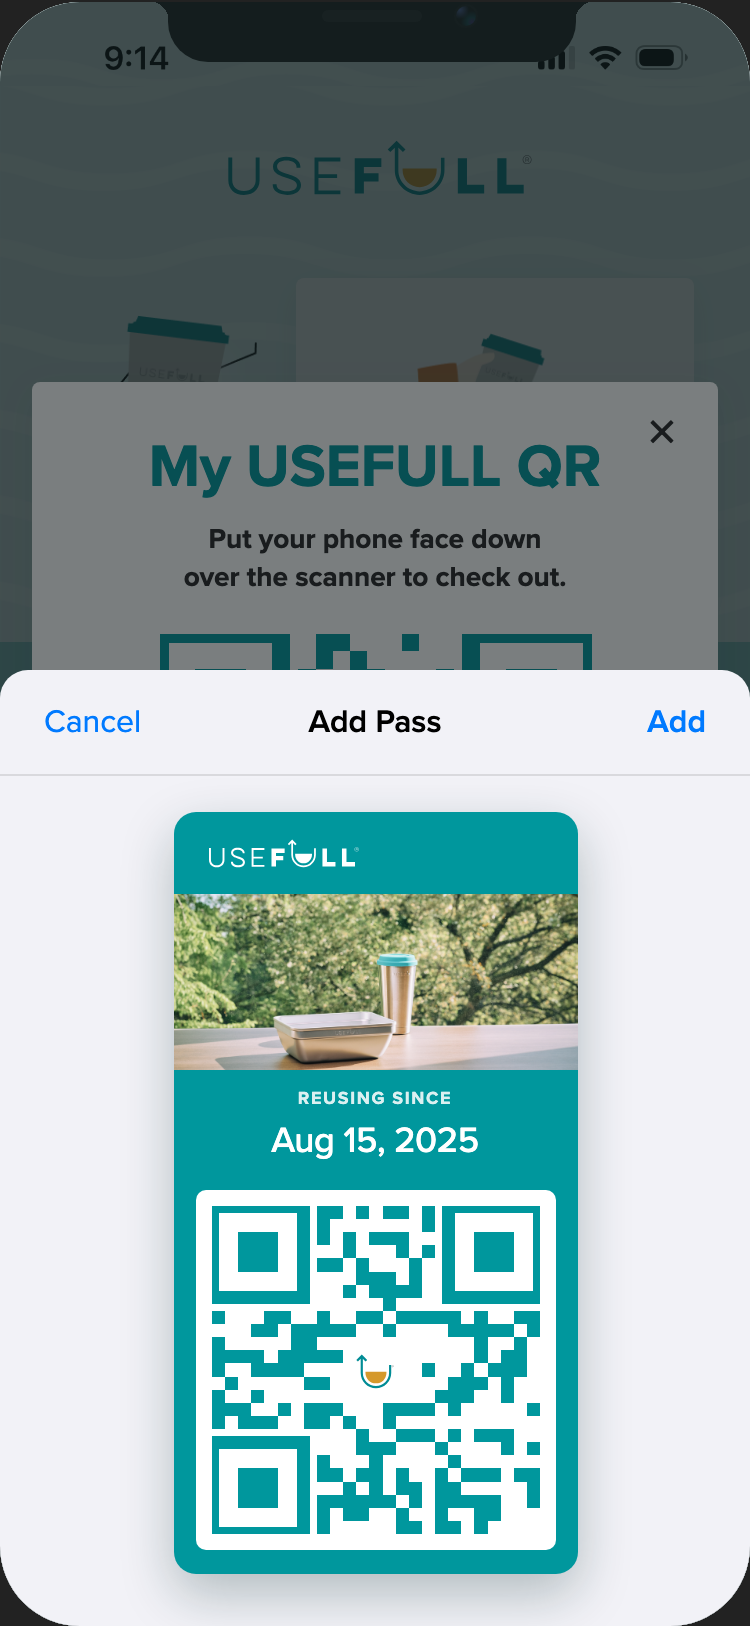
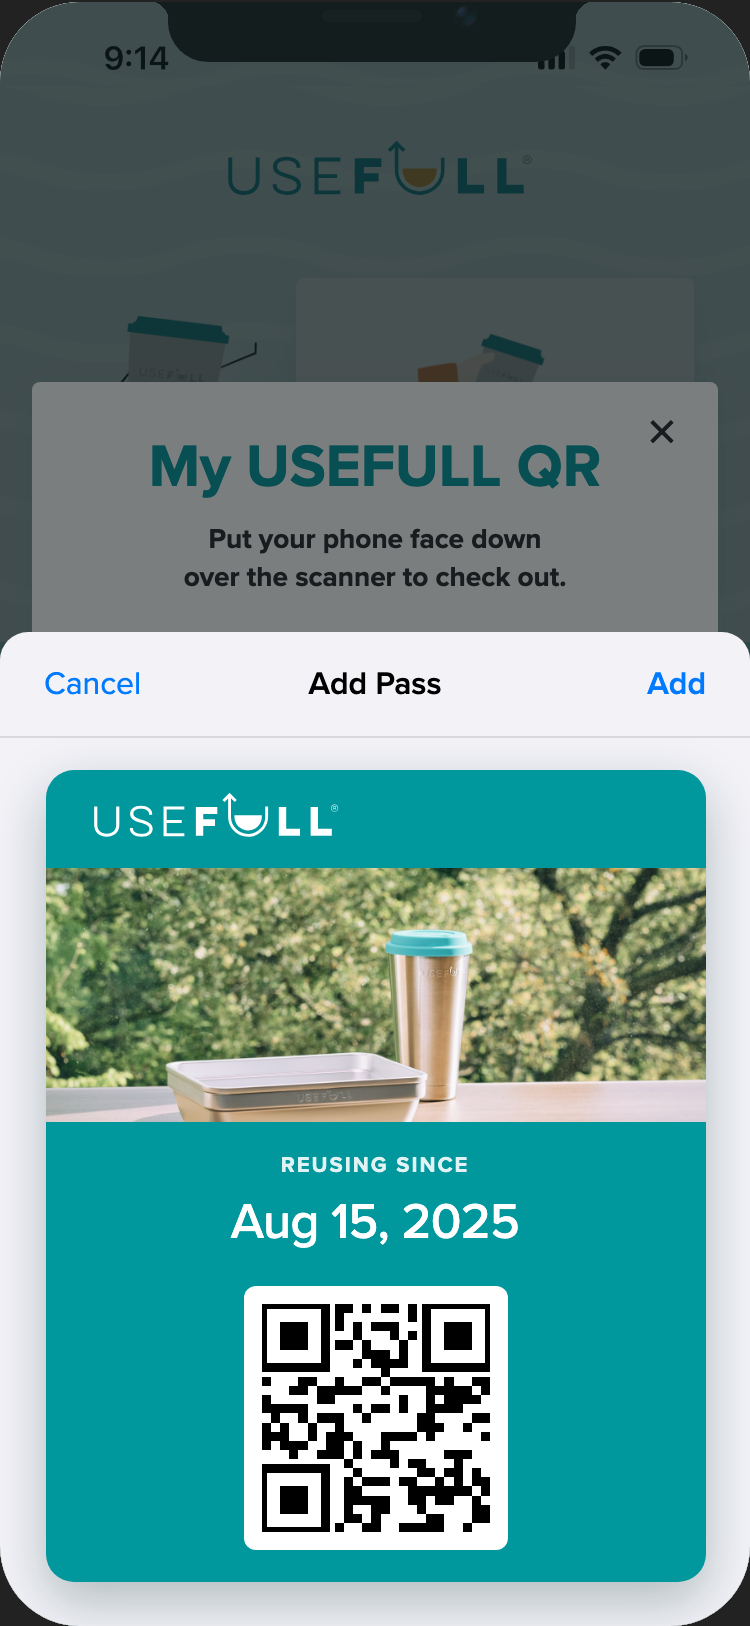
Wire up View in Wallet, enlarge pass, tighten strip crop
The Added-to-Wallet chip was a dead handler. It now opens a simulated
Wallet screen showing the pass in context, reachable from the chip and
from a new View in Wallet button on the add confirmation.

Pass was rendering at 202px inside a 375pt-wide screen, roughly half its
true relative size, which is why the logo and Reusing since read small.
Now 330px (~0.88 of a real pass), with strip.png at the taller 375x144pt
allotment and the photo zoomed toward the containers.

Also drops the USEFULL mark from the pass QR — Wallet renders barcodes
itself, always black on white, never tinted or overlaid.

diff --git a/app.js b/app.js
@@ -72,6 +72,7 @@ const state = {
   channelSetupMessage: '',
   qrSheetOpen: false,
   walletStage: '',
+  walletViewOpen: false,
   passAdded: false,
   walletAvailable: true,
   qrCopyVariant: 'scanner',
@@ -703,7 +704,7 @@ function renderNotificationSettings() {
   </section>`;
 }
 
-function qrSvg(scale = 1, seed = 20250815) {
+function qrSvg(scale = 1, seed = 20250815, withLogo = true) {
   const size = 25;
   let s = seed;
   const rand = () => { s = (s * 1103515245 + 12345) & 0x7fffffff; return s / 0x7fffffff; };
@@ -713,14 +714,14 @@ function qrSvg(scale = 1, seed = 20250815) {
   const modules = [];
   for (let y = 0; y < size; y += 1) {
     for (let x = 0; x < size; x += 1) {
-      if (inFinderMargin(x, y) || inLogo(x, y)) continue;
+      if (inFinderMargin(x, y) || (withLogo && inLogo(x, y))) continue;
       if (rand() > 0.52) modules.push(`<rect x="${x}" y="${y}" width="1" height="1"/>`);
     }
   }
   const finder = (fx, fy) => `<path d="M${fx} ${fy}h7v7h-7z" fill="none" stroke="currentColor" stroke-width="1"/><rect x="${fx + 2}" y="${fy + 2}" width="3" height="3"/>`;
   return `<svg class="qr-svg" viewBox="0 0 ${size} ${size}" role="img" aria-label="Your USEFULL QR code" style="--qr-scale:${scale}">
     <g fill="currentColor" shape-rendering="crispEdges">${modules.join('')}${finder(0, 0)}${finder(size - 7, 0)}${finder(0, size - 7)}</g>
-    <image href="branding/USEFULL-icons/USEFULL-Icon-Registered_Color.svg" x="10.1" y="10.9" width="4.8" height="3.4" preserveAspectRatio="xMidYMid meet"/>
+    ${withLogo ? '<image href="branding/USEFULL-icons/USEFULL-Icon-Registered_Color.svg" x="10.1" y="10.9" width="4.8" height="3.4" preserveAspectRatio="xMidYMid meet"/>' : ''}
   </svg>`;
 }
 
@@ -729,7 +730,7 @@ function renderWalletPass() {
     <header class="wallet-pass-head"><img src="branding/USEFULL-icons/USEFULL-Logo-Registered_KnockOut.svg" alt="USEFULL" /></header>
     <div class="wallet-pass-strip"><img src="images/outdoor-containers.png" alt="" /></div>
     <div class="wallet-pass-field"><span>Reusing since</span><strong>${escapeHTML(state.reusingSince)}</strong></div>
-    <div class="wallet-pass-qr">${qrSvg(1, 90210)}</div>
+    <div class="wallet-pass-qr">${qrSvg(1, 90210, false)}</div>
   </article>`;
 }
 
@@ -770,7 +771,8 @@ function renderWalletFlow() {
         <span class="wallet-done-check" aria-hidden="true">✓</span>
         <h2 id="wallet-done-title">Added to Apple Wallet</h2>
         <p>Find your USEFULL QR in the Wallet app any time.</p>
-        <button class="button button-teal" data-action="wallet-finish" type="button">Done</button>
+        <button class="button button-teal" data-action="wallet-view" type="button">View in Wallet</button>
+        <button class="wallet-done-secondary" data-action="wallet-finish" type="button">Done</button>
       </section>`;
   }
   return `<div class="modal-backdrop wallet-backdrop"></div>
@@ -782,6 +784,21 @@ function renderWalletFlow() {
       </header>
       <div class="wallet-sheet-body">${renderWalletPass()}</div>
     </section>`;
+}
+
+function renderWalletView() {
+  if (!state.walletViewOpen) return '';
+  const otherCards = ['card-a', 'card-b', 'card-c'].map(cls => `<div class="wv-card ${cls}"><span></span></div>`).join('');
+  return `<section class="wallet-view" role="dialog" aria-modal="true" aria-label="Apple Wallet">
+    <div class="wv-status" aria-hidden="true"><span>4:10</span><span class="wv-status-icons"><i class="ph ph-cell-signal-full"></i><i class="ph ph-wifi-high"></i><i class="ph ph-battery-high"></i></span></div>
+    <header class="wv-nav">
+      <button class="wv-back" data-action="wallet-view-close" type="button" aria-label="Back to USEFULL">‹</button>
+      <span class="wv-more" aria-hidden="true">•••</span>
+    </header>
+    <div class="wv-pass">${renderWalletPass()}</div>
+    <div class="wv-stack" aria-hidden="true">${otherCards}</div>
+    <p class="wv-hint">Simulated Apple Wallet — tap ‹ to return to the USEFULL app</p>
+  </section>`;
 }
 
 function renderSheet() {
@@ -820,7 +837,7 @@ function render() {
     profile: renderProfile,
     notificationManager: renderNotificationManager
   };
-  app.innerHTML = views[state.screen]() + renderSettings() + renderConsent() + renderQrSheet() + renderWalletFlow();
+  app.innerHTML = views[state.screen]() + renderSettings() + renderConsent() + renderQrSheet() + renderWalletFlow() + renderWalletView();
 }
 
 function renderAndFocus(selector) {
@@ -1182,7 +1199,11 @@ app.addEventListener('click', event => {
       state.walletStage = 'added';
       return render();
     case 'wallet-finish': state.walletStage = ''; return render();
-    case 'wallet-view': return;
+    case 'wallet-view':
+      state.walletStage = '';
+      state.walletViewOpen = true;
+      return render();
+    case 'wallet-view-close': state.walletViewOpen = false; return render();
   }
 });
 
@@ -1229,11 +1250,12 @@ app.addEventListener('input', event => {
 });
 
 resetButton.addEventListener('click', () => {
-  Object.assign(state, { screen:'community', history:[], acceptedTerms:false, email:'', name:'', firstName:'', lastName:'', password:'', phone:'', otp:'', authMode:'signup', returningEmail:'', returningPassword:'', returningSource:'', accountLookupEmail:'', accountLookupPhone:'', accountLookupResult:'', returningPhoneExists:true, otpEntryCorrect:true, allowEmailNotifications:true, notificationSmsSelected:true, notificationEmailSelected:false, notificationEmail:'', notificationPhoneSelected:false, notificationPhone:'', notificationContext:'signup', transactionalAccepted:false, consentOpen:false, settingsOpen:false, affiliation:'Student', graduationYear:'', payment:'', notificationManagerVersion:'controls', managerExistingChannel:'email', smsCampusEnabled:true, managerEmailAdded:true, managerSmsAdded:false, managerEmail:'owen@usefull.us', managerPhone:'', managerDirty:false, managerSaved:false, managerNotice:'', channelSetupOpen:false, channelSetupStage:'contact', channelSetupType:'', channelSetupContact:'', channelSetupOtp:'', channelSetupError:'', channelSetupMessage:'', qrSheetOpen:false, walletStage:'', passAdded:false, walletAvailable:true, qrCopyVariant:'scanner', notificationPreferences:freshNotificationPreferences(), sheet:null });
+  Object.assign(state, { screen:'community', history:[], acceptedTerms:false, email:'', name:'', firstName:'', lastName:'', password:'', phone:'', otp:'', authMode:'signup', returningEmail:'', returningPassword:'', returningSource:'', accountLookupEmail:'', accountLookupPhone:'', accountLookupResult:'', returningPhoneExists:true, otpEntryCorrect:true, allowEmailNotifications:true, notificationSmsSelected:true, notificationEmailSelected:false, notificationEmail:'', notificationPhoneSelected:false, notificationPhone:'', notificationContext:'signup', transactionalAccepted:false, consentOpen:false, settingsOpen:false, affiliation:'Student', graduationYear:'', payment:'', notificationManagerVersion:'controls', managerExistingChannel:'email', smsCampusEnabled:true, managerEmailAdded:true, managerSmsAdded:false, managerEmail:'owen@usefull.us', managerPhone:'', managerDirty:false, managerSaved:false, managerNotice:'', channelSetupOpen:false, channelSetupStage:'contact', channelSetupType:'', channelSetupContact:'', channelSetupOtp:'', channelSetupError:'', channelSetupMessage:'', qrSheetOpen:false, walletStage:'', walletViewOpen:false, passAdded:false, walletAvailable:true, qrCopyVariant:'scanner', notificationPreferences:freshNotificationPreferences(), sheet:null });
   render();
 });
 
 document.addEventListener('keydown', event => {
+  if (event.key === 'Escape' && state.walletViewOpen) { state.walletViewOpen = false; render(); return; }
   if (event.key === 'Escape' && state.walletStage) { state.walletStage = ''; render(); return; }
   if (event.key === 'Escape' && state.qrSheetOpen) { state.qrSheetOpen = false; render(); return; }
   if (event.key === 'Escape' && state.channelSetupOpen) {

diff --git a/styles.css b/styles.css
@@ -643,24 +643,46 @@ button { -webkit-tap-highlight-color: transparent; }
 .wallet-sheet-bar button { border: 0; background: transparent; color: #007aff; font-size: 16px; cursor: pointer; }
 .wallet-sheet-bar button:first-child { justify-self: start; }
 .wallet-sheet-add { justify-self: end; font-weight: 600; }
-.wallet-sheet-body { flex: 1 1 auto; overflow-y: auto; padding: 18px 26px 26px; display: grid; place-items: start center; }
-.wallet-pass { width: 100%; max-width: 202px; border-radius: 11px; overflow: hidden; background: var(--teal); box-shadow: 0 10px 26px rgba(15,50,52,.28); }
-.wallet-pass-head { padding: 11px 11px 8px; }
+.wallet-sheet-body { flex: 1 1 auto; overflow-y: auto; padding: 16px 14px 22px; display: grid; place-items: start center; }
+/* Pass renders at ~0.88 of a real 375pt pass, matching how it fills a real phone. */
+.wallet-pass { width: 100%; max-width: 330px; border-radius: 14px; overflow: hidden; background: var(--teal); box-shadow: 0 10px 26px rgba(15,50,52,.28); }
+.wallet-pass-head { height: 49px; padding: 0 13px; display: flex; align-items: center; }
 /* logo.png allotment is 160x50pt of a 375pt pass; wordmark is 4:1, so 160x40pt */
-.wallet-pass-head img { display: block; width: 86px; height: 21.5px; }
-.wallet-pass-strip { height: 88px; background: rgba(0,0,0,.1); }
-.wallet-pass-strip img { width: 100%; height: 100%; object-fit: cover; object-position: 50% 64%; display: block; }
-.wallet-pass-field { padding: 9px 11px 3px; display: grid; justify-items: center; gap: 2px; text-align: center; }
-.wallet-pass-field span { color: rgba(255,255,255,.86); font-size: 9px; font-weight: 700; letter-spacing: .09em; text-transform: uppercase; }
-.wallet-pass-field strong { color: #fff; font-size: 18px; font-weight: 500; letter-spacing: -.01em; }
-.wallet-pass-qr { margin: 8px 11px 12px; padding: 8px; border-radius: 5px; background: #fff; }
-.wallet-pass-qr .qr-svg { color: var(--teal); }
+.wallet-pass-head img { display: block; width: 141px; height: 35px; }
+.wallet-pass-strip { height: 127px; background: rgba(0,0,0,.1); overflow: hidden; }
+.wallet-pass-strip img { width: 100%; height: 100%; object-fit: cover; display: block; transform: scale(1.3); transform-origin: 46% 82%; }
+.wallet-pass-field { padding: 14px 13px 4px; display: grid; justify-items: center; gap: 3px; text-align: center; }
+.wallet-pass-field span { color: rgba(255,255,255,.88); font-size: 11px; font-weight: 700; letter-spacing: .09em; text-transform: uppercase; }
+.wallet-pass-field strong { color: #fff; font-size: 25px; font-weight: 500; letter-spacing: -.01em; }
+/* Wallet draws the barcode itself: fixed square, black on white, never tinted. */
+.wallet-pass-qr { width: 132px; margin: 10px auto 16px; padding: 9px; border-radius: 6px; background: #fff; }
+.wallet-pass-qr .qr-svg { color: #000; }
 
 .wallet-done { position: absolute; z-index: 92; left: 26px; right: 26px; top: 50%; transform: translateY(-50%); padding: 30px 22px 24px; border-radius: var(--radius-card); display: grid; justify-items: center; background: #fff; box-shadow: var(--shadow-card); text-align: center; animation: modal-in 220ms cubic-bezier(.2,.8,.2,1); }
 .wallet-done-check { width: 54px; height: 54px; margin-bottom: 14px; border-radius: 50%; display: grid; place-items: center; color: #fff; background: var(--teal); font-size: 28px; }
 .wallet-done h2 { margin: 0 0 8px; color: var(--ink-strong); font-size: 23px; line-height: 27px; }
 .wallet-done p { margin: 0 0 20px; color: var(--ink-soft); font-size: 14px; line-height: 19px; }
 .wallet-done .button { width: 100%; }
+.wallet-done-secondary { margin-top: 12px; border: 0; background: transparent; color: var(--teal-deep); font-size: 14px; font-weight: 600; cursor: pointer; }
+
+/* Simulated Apple Wallet app */
+.wallet-view { position: absolute; inset: 0; z-index: 120; background: #000; display: flex; flex-direction: column; animation: wallet-rise 300ms cubic-bezier(.2,.8,.2,1); }
+@keyframes wallet-rise { from { transform: translateY(6%); opacity: 0; } to { transform: translateY(0); opacity: 1; } }
+.wv-status { flex: 0 0 auto; padding: 16px 26px 0; display: flex; align-items: center; justify-content: space-between; color: #fff; font-size: 15px; font-weight: 600; }
+.wv-status-icons { display: flex; align-items: center; gap: 6px; font-size: 15px; font-weight: 400; }
+.wv-nav { flex: 0 0 auto; padding: 8px 22px 0; display: flex; align-items: center; justify-content: space-between; }
+.wv-back { width: 40px; height: 40px; border: 0; background: transparent; color: #ff9f0a; font-size: 34px; line-height: 1; cursor: pointer; }
+.wv-more { width: 30px; height: 30px; border-radius: 50%; background: rgba(255,255,255,.16); color: #fff; font-size: 13px; letter-spacing: .5px; display: grid; place-items: center; }
+.wv-pass { flex: 0 0 auto; padding: 10px 22px 0; display: grid; justify-items: center; }
+.wv-pass .wallet-pass { max-width: 100%; box-shadow: 0 14px 34px rgba(0,0,0,.55); }
+.wv-stack { flex: 0 0 auto; padding: 12px 22px 0; }
+.wv-card { height: 58px; border-radius: 14px; margin-top: -32px; position: relative; box-shadow: 0 -5px 16px rgba(0,0,0,.5); border-top: 1px solid rgba(255,255,255,.09); }
+.wv-card:first-child { margin-top: 0; }
+.wv-card span { position: absolute; left: 14px; top: 12px; width: 42px; height: 8px; border-radius: 4px; background: rgba(255,255,255,.22); }
+.wv-card.card-a { background: linear-gradient(150deg, #4a4a4c, #2c2c2e); }
+.wv-card.card-b { background: linear-gradient(150deg, #6b5a48, #3d332a); }
+.wv-card.card-c { background: linear-gradient(150deg, #2f4858, #1e2f3a); }
+.wv-hint { margin-top: auto; padding: 0 22px 18px; color: rgba(255,255,255,.4); font-size: 11px; text-align: center; }
 
 @media (max-height: 940px) and (min-width: 560px) {
   .device-stage { width: 360px; height: 729px; }

diff --git a/handoff/apple-wallet/wallet-context.html b/handoff/apple-wallet/wallet-context.html
@@ -36,11 +36,12 @@
   /* logo.png allotment is 160x50pt; wordmark is 4:1 so 160x40pt = 480x120px @3x */
   .pass-header img { width: 480px; height: 120px; display: block; }
 
-  .strip { height: 369px; overflow: hidden; }
-  .strip img { width: 100%; height: 100%; object-fit: cover; object-position: 50% 64%; display: block; }
+  /* strip.png at the taller 375x144pt allotment = 1125x432 @3x */
+  .strip { height: 432px; overflow: hidden; }
+  .strip img { width: 100%; height: 100%; object-fit: cover; display: block; transform: scale(1.3); transform-origin: 46% 82%; }
   .secondary { padding: 42px 45px 30px; display: grid; justify-items: center; gap: 10px; }
-  .secondary .label { color: rgba(255,255,255,.88); font-size: 31px; font-weight: 600; letter-spacing: .09em; text-transform: uppercase; }
-  .secondary .value { color: #fff; font-size: 62px; font-weight: 400; letter-spacing: -.01em; }
+  .secondary .label { color: rgba(255,255,255,.88); font-size: 36px; font-weight: 600; letter-spacing: .09em; text-transform: uppercase; }
+  .secondary .value { color: #fff; font-size: 76px; font-weight: 400; letter-spacing: -.01em; }
   .barcode-area { padding: 12px 45px 48px; display: grid; justify-items: center; }
   .barcode-box { background:#fff; border-radius:18px; padding:24px; width:420px; height:420px; }
   .barcode-box svg { display:block; width:100%; height:100%; color:#000; }

diff --git a/handoff/apple-wallet/pass-render.html b/handoff/apple-wallet/pass-render.html
@@ -34,8 +34,9 @@
   /* logo.png allotment is 160x50pt; wordmark is 4:1 so 160x40pt = 480x120px @3x */
   .pass-header img { width: 480px; height: 120px; display: block; }
 
-  .strip { height: 369px; overflow: hidden; }
-  .strip img { width: 100%; height: 100%; object-fit: cover; object-position: 50% 64%; display: block; }
+  /* strip.png at the taller 375x144pt allotment = 1125x432 @3x */
+  .strip { height: 432px; overflow: hidden; }
+  .strip img { width: 100%; height: 100%; object-fit: cover; display: block; transform: scale(1.3); transform-origin: 46% 82%; }
 
   .secondary {
     padding: 42px 45px 30px;
@@ -45,14 +46,14 @@
   }
   .secondary .label {
     color: rgba(255,255,255,.88);
-    font-size: 31px;
+    font-size: 36px;
     font-weight: 600;
     letter-spacing: .09em;
     text-transform: uppercase;
   }
   .secondary .value {
     color: #fff;
-    font-size: 62px;
+    font-size: 76px;
     font-weight: 400;
     letter-spacing: -.01em;
   }
